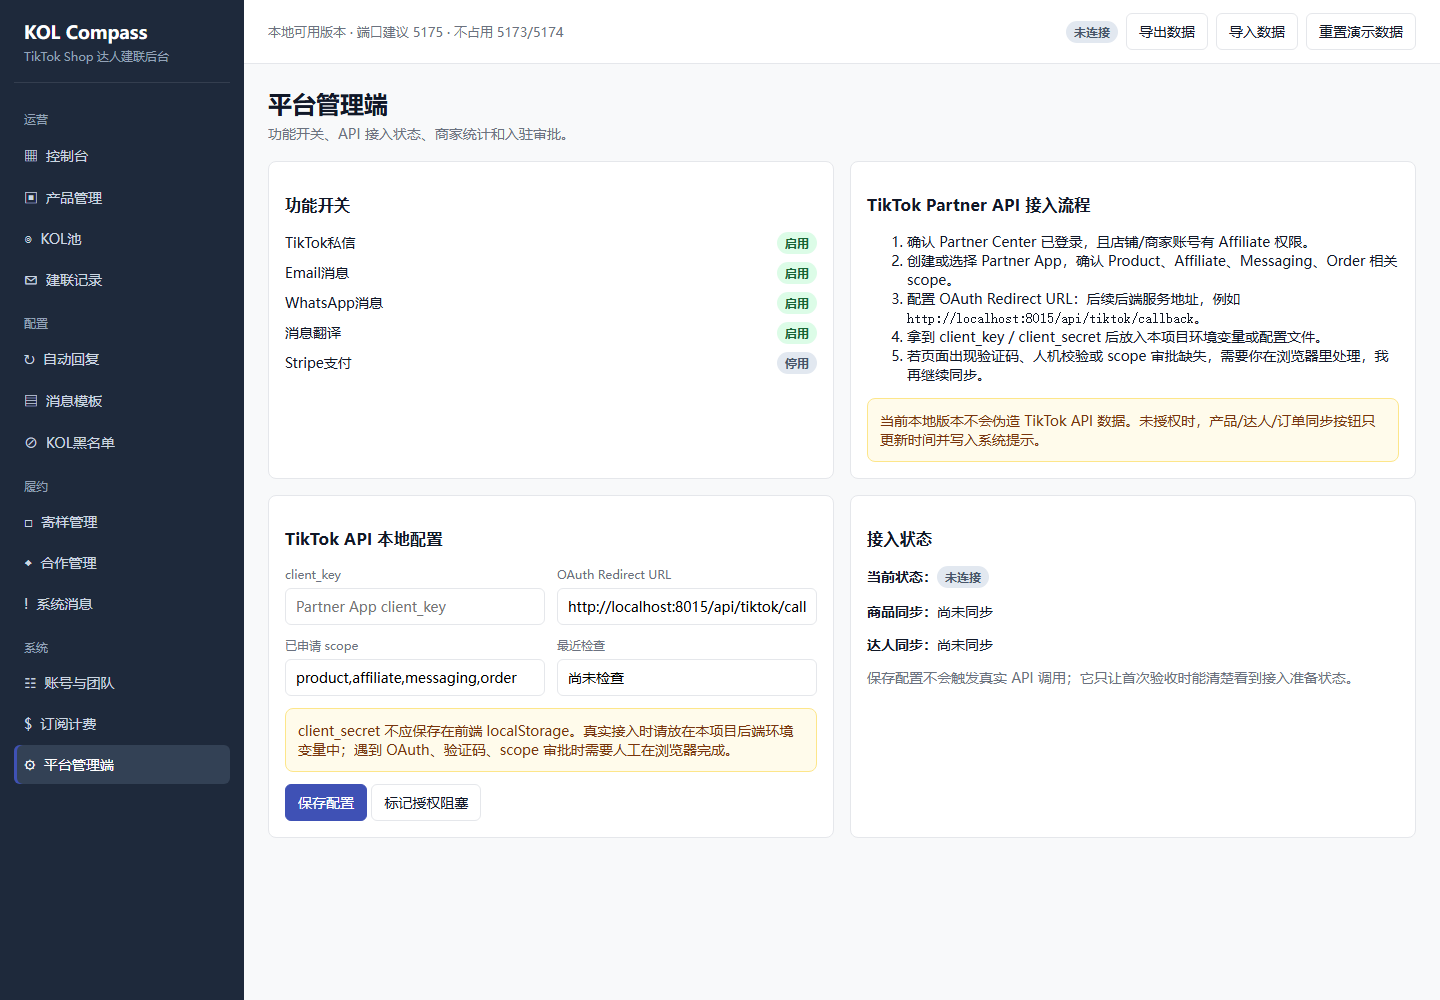
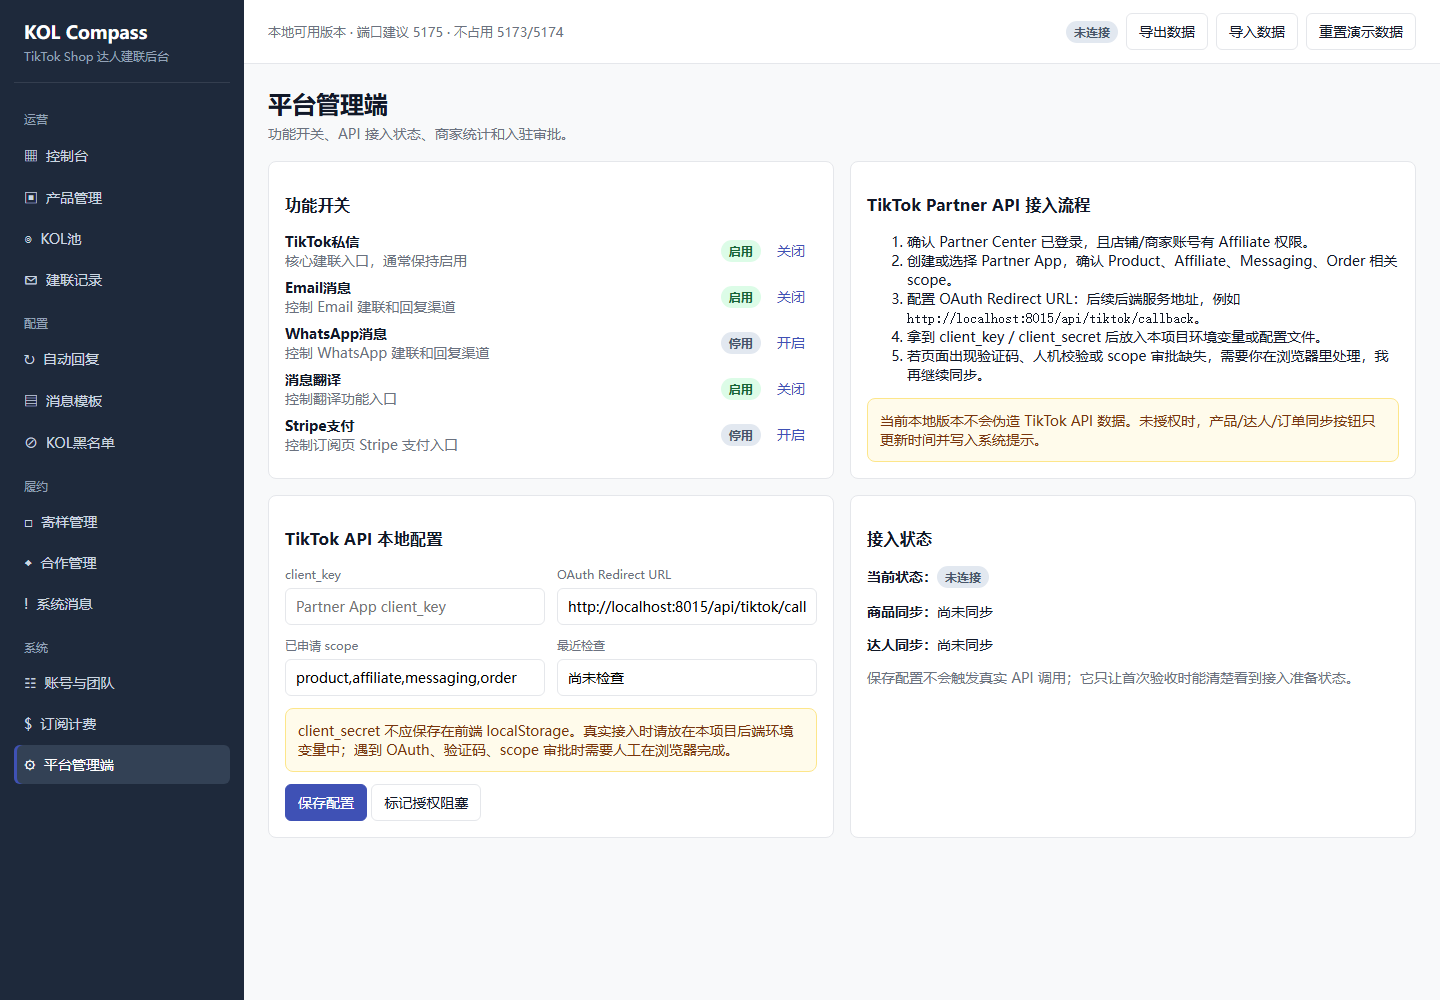
Enforce platform feature switches

Changed region(s): [[0.1875, 0.217, 0.3438, 0.465], [0.5, 0.217, 0.5625, 0.465]]

diff --git a/app.js b/app.js
@@ -60,6 +60,13 @@ const seed = {
     tiktokRedirectUrl: "http://localhost:8015/api/tiktok/callback",
     tiktokScopes: "product,affiliate,messaging,order",
     tiktokLastAuthCheck: "尚未检查",
+    featureSwitches: {
+      tiktokMessaging: true,
+      emailMessaging: true,
+      whatsappMessaging: false,
+      translation: true,
+      stripePayment: false,
+    },
   },
   products: [
     { id: 1, name: "无线蓝牙耳机 Pro Max", category: "电子配件", price: "$49.90", commission: "15%", mode: "公开合作", status: "在售" },
@@ -174,6 +181,7 @@ function normalizeState(next) {
   const merged = { ...structuredClone(seed), ...next };
   merged.filters = { ...seed.filters, ...(next.filters || {}) };
   merged.settings = { ...seed.settings, ...(next.settings || {}) };
+  merged.settings.featureSwitches = { ...seed.settings.featureSwitches, ...((next.settings || {}).featureSwitches || {}) };
   if (!Array.isArray(merged.bulkCreatorIds)) merged.bulkCreatorIds = [];
   if (!Array.isArray(merged.syncLogs)) merged.syncLogs = [];
   return merged;
@@ -419,7 +427,7 @@ function renderProducts() {
       </div>
       <div class="filters">
         <span class="muted">上次同步：${state.settings.lastProductSync}</span>
-        <button class="btn" onclick="addProduct()">手动新增测试商品</button>
+        <button class="btn" onclick="addProduct()">商品来源说明</button>
       </div>
     </div>
     <div class="notice" style="margin-bottom:12px">真实商品、佣金率和合作模式应来自 TikTok Shop Partner API；当前未授权时仅使用本地数据，不伪造同步成功。</div>
@@ -681,8 +689,10 @@ function renderTeam() {
 }
 
 function renderBilling() {
+  const stripeEnabled = Boolean(state.settings.featureSwitches.stripePayment);
   return `
     ${pageHead("订阅计费", "查看套餐、配额和账单。支付通道由平台管理端开关控制。")}
+    <div class="notice" style="margin-bottom:16px">当前可用支付通道：支付宝、微信支付${stripeEnabled ? "、Stripe" : "。Stripe 支付已由平台管理端关闭"}。</div>
     <div class="grid grid-4">
       ${["免费版|$0|100 建联/月", "基础版|$29|1,000 建联/月", "专业版|$99|5,000 建联/月", "企业版|$299|不限量"].map((raw) => {
         const [name, price, quota] = raw.split("|");
@@ -693,17 +703,33 @@ function renderBilling() {
 }
 
 function renderAdmin() {
+  const switches = [
+    ["tiktokMessaging", "TikTok私信", "核心建联入口，通常保持启用"],
+    ["emailMessaging", "Email消息", "控制 Email 建联和回复渠道"],
+    ["whatsappMessaging", "WhatsApp消息", "控制 WhatsApp 建联和回复渠道"],
+    ["translation", "消息翻译", "控制翻译功能入口"],
+    ["stripePayment", "Stripe支付", "控制订阅页 Stripe 支付入口"],
+  ];
   return `
     ${pageHead("平台管理端", "功能开关、API 接入状态、商家统计和入驻审批。")}
     <div class="grid grid-2">
       <div class="card">
         <h3>功能开关</h3>
-        ${["TikTok私信", "Email消息", "WhatsApp消息", "消息翻译", "Stripe支付"].map((x, i) => `
+        ${switches.map(([key, name, desc]) => {
+          const enabled = Boolean(state.settings.featureSwitches[key]);
+          return `
           <div class="toolbar" style="margin:8px 0">
-            <span>${x}</span>
-            ${badge(i === 4 ? "停用" : "启用")}
+            <div>
+              <b>${name}</b>
+              <div class="muted">${desc}</div>
+            </div>
+            <div>
+              ${badge(enabled ? "启用" : "停用")}
+              <button class="btn ghost" onclick="toggleFeatureSwitch('${key}')">${enabled ? "关闭" : "开启"}</button>
+            </div>
           </div>
-        `).join("")}
+        `;
+        }).join("")}
       </div>
       <div class="card">
         <h3>TikTok Partner API 接入流程</h3>
@@ -874,6 +900,46 @@ function addSyncLog(module, status, reason) {
   state.syncLogs = state.syncLogs.slice(0, 50);
 }
 
+function featureEnabled(key) {
+  return Boolean(state.settings.featureSwitches[key]);
+}
+
+function channelFeatureKey(channel) {
+  if (channel === "Email") return "emailMessaging";
+  if (channel === "WhatsApp") return "whatsappMessaging";
+  return "tiktokMessaging";
+}
+
+function channelEnabled(channel) {
+  return featureEnabled(channelFeatureKey(channel));
+}
+
+function channelOptionsForCreators(targets, currentChannel = "") {
+  const list = [];
+  const add = (value, text = value) => list.push([value, text]);
+  if (channelEnabled("TikTok私信")) add("TikTok私信");
+  if (channelEnabled("Email") && targets.every((c) => c?.email)) add("Email");
+  if (channelEnabled("WhatsApp") && targets.every((c) => c?.whatsapp)) add("WhatsApp");
+  if (!list.length && currentChannel && channelEnabled(currentChannel)) add(currentChannel);
+  return list;
+}
+
+function validateChannelForCreators(channel, targets) {
+  if (!channelEnabled(channel)) {
+    alert(`${channel} 已被平台管理端关闭，不能用于新建联或回复。`);
+    return false;
+  }
+  if (channel === "Email" && !targets.every((c) => c?.email)) {
+    alert("选择 Email 前，需要先为所有目标达人录入 Email。");
+    return false;
+  }
+  if (channel === "WhatsApp" && !targets.every((c) => c?.whatsapp)) {
+    alert("选择 WhatsApp 前，需要先为所有目标达人录入 WhatsApp。");
+    return false;
+  }
+  return true;
+}
+
 function syncProducts() {
   state.settings.lastProductSync = nowText();
   const reason = "本地模式下仅更新时间；真实商品数据需完成 TikTok Partner API 授权。";
@@ -935,12 +1001,24 @@ function markApiAuthBlocked() {
   render();
 }
 
-function addProduct() {
-  const name = prompt("产品名称");
-  if (!name) return;
-  state.products.push({ id: Date.now(), name, category: "未分类", price: "-", commission: "10%", mode: "公开合作", status: "在售" });
+function toggleFeatureSwitch(key) {
+  const names = {
+    tiktokMessaging: "TikTok私信",
+    emailMessaging: "Email消息",
+    whatsappMessaging: "WhatsApp消息",
+    translation: "消息翻译",
+    stripePayment: "Stripe支付",
+  };
+  if (!Object.prototype.hasOwnProperty.call(state.settings.featureSwitches, key)) return;
+  state.settings.featureSwitches[key] = !state.settings.featureSwitches[key];
+  const status = state.settings.featureSwitches[key] ? "启用" : "停用";
+  pushMessage("功能开关", `${names[key] || key} 已${status}。`);
   saveState();
   render();
+}
+
+function addProduct() {
+  alert("产品数据应来自 TikTok Shop Partner API。本地版本不允许手动新增，避免和真实店铺商品冲突。");
 }
 
 function dateAfter(days) {
@@ -1001,12 +1079,7 @@ function advanceOutreach(id, status) {
 
 function replyChannelOptions(row) {
   const c = creator(row.creatorId);
-  const channels = new Map();
-  channels.set(row.channel || "TikTok私信", row.channel || "TikTok私信");
-  channels.set("TikTok私信", "TikTok私信");
-  if (c?.email) channels.set("Email", "Email");
-  if (c?.whatsapp) channels.set("WhatsApp", "WhatsApp");
-  return Array.from(channels.entries());
+  return channelOptionsForCreators([c], row.channel);
 }
 
 function openReplyModal(id) {
@@ -1015,10 +1088,13 @@ function openReplyModal(id) {
   const c = creator(row.creatorId);
   const p = product(row.productId) || state.products[0];
   const defaultTemplate = state.templates[1]?.content || "Hi {KOL名称}，感谢回复，我们会继续推进 {产品名称} 的合作。";
+  const channelOptions = replyChannelOptions(row);
+  if (!channelOptions.length) return alert("当前没有可用回复渠道，请先到平台管理端开启 TikTok 私信、Email 或 WhatsApp。");
+  const defaultChannel = channelOptions.some(([v]) => v === row.channel) ? row.channel : channelOptions[0][0];
   openModal("回复达人", `
-    <div class="notice">正在回复 @${escapeHtml(c?.username || "-")}。如达人已提供 Email 或 WhatsApp，可先在 KOL 详情中录入联系方式后切换渠道。</div>
+    <div class="notice">正在回复 @${escapeHtml(c?.username || "-")}。Email / WhatsApp 必须同时满足“平台开关已开启”和“达人已录入联系方式”才会显示。</div>
     <div class="form-grid" style="margin-top:12px">
-      ${selectField("replyChannel", "回复渠道", replyChannelOptions(row), row.channel || "TikTok私信")}
+      ${selectField("replyChannel", "回复渠道", channelOptions, defaultChannel)}
       ${selectField("replyTemplateId", "消息模板", [["0", "不使用模板"], ...state.templates.map((x) => [x.id, x.name])], state.templates[1]?.id || "0")}
     </div>
     <div class="form-field" style="margin-top:12px"><label>回复内容</label><textarea id="replyMessage" class="textarea">${escapeHtml(renderTemplate(defaultTemplate, c || {}, p))}</textarea></div>
@@ -1034,7 +1110,9 @@ function saveReply(id) {
   const template = state.templates.find((x) => x.id === templateId);
   const rawMessage = document.getElementById("replyMessage").value.trim() || template?.content || "";
   const message = renderTemplate(rawMessage, c || {}, p);
-  row.channel = document.getElementById("replyChannel").value;
+  const channel = document.getElementById("replyChannel").value;
+  if (!validateChannelForCreators(channel, [c])) return;
+  row.channel = channel;
   row.status = "待回复";
   row.updatedAt = nowText();
   row.lastMessage = `[${row.updatedAt}] 我方回复：${message}`;
@@ -1225,16 +1303,14 @@ function openOutreachModal(creatorId = 0) {
     alert("请先选择至少一位可建联达人");
     return;
   }
-  const first = targets[0];
-  const channelOptions = [["TikTok私信", "TikTok私信"]];
-  if (targets.every((c) => c.email)) channelOptions.push(["Email", "Email"]);
-  if (targets.every((c) => c.whatsapp)) channelOptions.push(["WhatsApp", "WhatsApp"]);
+  const channelOptions = channelOptionsForCreators(targets);
+  if (!channelOptions.length) return alert("当前没有可用发送渠道，请先到平台管理端开启 TikTok 私信、Email 或 WhatsApp。");
   const defaultTemplate = state.templates[0]?.content || "Hi {KOL名称}，我们想邀请你合作 {产品名称}。";
   openModal("发起建联", `
-    <div class="notice">本次将联系 ${targets.length} 位达人：${targets.slice(0, 4).map((c) => `@${escapeHtml(c.username)}`).join("、")}${targets.length > 4 ? " 等" : ""}。未录入 Email/WhatsApp 的达人仅显示 TikTok 私信渠道。</div>
+    <div class="notice">本次将联系 ${targets.length} 位达人：${targets.slice(0, 4).map((c) => `@${escapeHtml(c.username)}`).join("、")}${targets.length > 4 ? " 等" : ""}。Email / WhatsApp 必须同时满足“平台开关已开启”和“所有目标达人已录入联系方式”才会显示。</div>
     <div class="form-grid" style="margin-top:12px">
       ${selectField("outreachProductId", "建联产品", state.products.map((x) => [x.id, `${x.name} · ${x.commission}`]), state.products[0]?.id)}
-      ${selectField("outreachChannel", "发送渠道", channelOptions, "TikTok私信")}
+      ${selectField("outreachChannel", "发送渠道", channelOptions, channelOptions[0][0])}
       ${selectField("outreachTemplateId", "消息模板", [["0", "不使用模板"], ...state.templates.map((x) => [x.id, x.name])], state.templates[0]?.id || "0")}
       ${selectField("outreachSendMode", "发送方式", [["立即发送", "立即发送"], ["定时发送", "定时发送"]], "立即发送")}
       ${field("outreachScheduleAt", "定时发送时间", "2026-06-22 09:30", "")}
@@ -1262,6 +1338,8 @@ function saveOutreach(idList) {
   const scheduleAt = document.getElementById("outreachScheduleAt").value.trim();
   const invite = document.getElementById("outreachInvite").value === "是";
   const message = document.getElementById("outreachMessage").value.trim() || template?.content || "";
+  const targets = ids.map((id) => creator(id)).filter(Boolean).filter((c) => c.status !== "黑名单");
+  if (!validateChannelForCreators(channel, targets)) return;
   let created = 0;
   ids.forEach((id, index) => {
     const c = creator(id);
@@ -1748,6 +1826,7 @@ window.syncCoopData = syncCoopData;
 window.simulateConnect = simulateConnect;
 window.saveApiSettings = saveApiSettings;
 window.markApiAuthBlocked = markApiAuthBlocked;
+window.toggleFeatureSwitch = toggleFeatureSwitch;
 window.addProduct = addProduct;
 window.openCreatorModal = openCreatorModal;
 window.saveCreator = saveCreator;

diff --git a/smoke-test.js b/smoke-test.js
@@ -79,6 +79,8 @@ async function main() {
   assert("TikTok API handoff exists", fs.existsSync("docs/TIKTOK_API_HANDOFF.md"));
   assert("TikTok API settings can be saved locally", ["tiktokClientKey", "tiktokRedirectUrl", "tiktokScopes", "saveApiSettings", "markApiAuthBlocked"].every((name) => app.includes(name)) && app.includes("client_secret 不应保存在前端"));
   assert("sync logs are visible and recorded", ["syncLogs", "addSyncLog"].every((name) => app.includes(name)) && app.includes("同步日志"));
+  assert("platform feature switches govern channels", ["featureSwitches", "toggleFeatureSwitch", "channelOptionsForCreators", "validateChannelForCreators"].every((name) => app.includes(name)) && app.includes("Stripe 支付已由平台管理端关闭"));
+  assert("products cannot be manually faked", app.includes("本地版本不允许手动新增") && app.includes("产品数据应来自 TikTok Shop Partner API"));
   assert("Claude continuation doc exists", fs.existsSync("docs/CLAUDE_CONTINUE.md"));
   assert("acceptance report exists", fs.existsSync("docs/ACCEPTANCE_REPORT.md"));
 

diff --git a/docs/CLAUDE_CONTINUE.md b/docs/CLAUDE_CONTINUE.md
@@ -31,7 +31,7 @@
 - `stop-5175.bat`
 - `smoke-test.js`
 
-最近一次心跳检查：2026-06-21 23:14 CST，当前分支已连接 GitHub 远端，`node --check app.js` 与 `node smoke-test.js` 通过。本轮新增系统消息同步日志，用于展示 API/同步状态、失败原因和时间。
+最近一次心跳检查：2026-06-21 23:20 CST，当前分支已连接 GitHub 远端，`node --check app.js` 与 `node smoke-test.js` 通过。本轮新增平台功能开关真实约束：Email/WhatsApp 开关会影响建联和回复渠道，Stripe 开关会影响订阅页提示；产品管理不允许手动新增伪造商品。
 
 启动：
 
@@ -87,6 +87,7 @@ P0：
    - 支持关键词搜索
    - 支持类目、状态、合作模式筛选
    - 未授权 TikTok Partner API 时只展示本地数据和明确提示，不伪造同步成功
+   - 不允许手动新增商品，避免和 TikTok Shop 真实商品源冲突
 3. 补齐各页面的新增/编辑/删除闭环，不只是展示。
 4. 把“合作管理”作为内容追踪主工作台继续增强：
    - 达人/产品/负责人/备注搜索
@@ -113,6 +114,10 @@ P0：
    - 当前使用 localStorage
    - 后续如果需要后端，新增本项目自己的后端端口，例如 `8015`
    - 不接入 `D:\tiktok-creator-tool` 的后端
+8. 保持平台功能开关真实生效：
+   - Email / WhatsApp 关闭后，新建联和回复渠道不展示对应入口
+   - 保存建联/回复时必须二次校验渠道开关和达人联系方式
+   - Stripe 关闭后，订阅页必须明确展示 Stripe 不可用
 
 P1：
 
@@ -169,4 +174,5 @@ GitHub 提交流程：
 "C:\Program Files (x86)\Microsoft\Edge\Application\msedge.exe" --headless=new --disable-gpu --no-first-run --window-size=1440,1000 --screenshot="smoke-cooperations.png" "http://127.0.0.1:5175/#cooperations"
 "C:\Program Files (x86)\Microsoft\Edge\Application\msedge.exe" --headless=new --disable-gpu --no-first-run --window-size=1440,1000 --screenshot="smoke-kol-detail.png" "http://127.0.0.1:5175/#kol/creator/1"
 "C:\Program Files (x86)\Microsoft\Edge\Application\msedge.exe" --headless=new --disable-gpu --no-first-run --window-size=1440,1000 --screenshot="smoke-messages.png" "http://127.0.0.1:5175/#messages"
+"C:\Program Files (x86)\Microsoft\Edge\Application\msedge.exe" --headless=new --disable-gpu --no-first-run --window-size=1440,1000 --screenshot="smoke-billing.png" "http://127.0.0.1:5175/#billing"
 ```

diff --git a/docs/PROJECT_MEMORY.md b/docs/PROJECT_MEMORY.md
@@ -1,6 +1,6 @@
 # KOL Compass 项目记忆
 
-更新时间：2026-06-21 23:14 CST
+更新时间：2026-06-21 23:20 CST
 
 ## 当前工作目录
 
@@ -40,6 +40,8 @@ node smoke-test.js
 
 - `node --check app.js` 通过。
 - `node smoke-test.js` 全部通过。
+- 平台管理端截图 `smoke-admin.png` 已重新生成并目视检查通过，功能开关可见且可切换。
+- 订阅计费截图 `smoke-billing.png` 已生成并目视检查通过，Stripe 关闭状态可见。
 - 系统消息截图 `smoke-messages.png` 已生成并目视检查通过。
 - 产品管理截图 `smoke-products.png` 已生成并目视检查通过。
 - 平台管理端截图 `smoke-admin.png` 已重新生成并目视检查通过。
@@ -58,6 +60,10 @@ node smoke-test.js
 - 建联记录已支持按达人/产品/消息关键词、沟通状态、渠道筛选。
 - 合作管理已支持按达人/产品/负责人/备注搜索，并支持全部/已产出/未产出筛选。
 - 平台管理端已支持保存 TikTok API 本地配置：client_key、OAuth Redirect URL、scope、最近检查时间；client_secret 明确不保存到前端。
+- 平台管理端功能开关已从静态展示变成真实状态：TikTok 私信、Email、WhatsApp、消息翻译、Stripe 支付可切换。
+- 建联和回复渠道会读取功能开关；关闭 Email/WhatsApp 后，新建联和回复不会再显示对应渠道，保存时也会二次校验。
+- 订阅计费页会读取 Stripe 支付开关，关闭时明确展示 Stripe 不可用。
+- 产品管理不允许手动新增商品，避免本地商品和 TikTok Shop 真实商品源冲突。
 - KOL 池和合作管理已支持 CSV 导入。
 - KOL 池已支持勾选达人、一键建联、选择产品/模板/渠道、定时发送记录和附加邀请链接。
 - 达人联系方式已支持在编辑弹窗录入 Email / WhatsApp。

diff --git a/README.md b/README.md
@@ -69,6 +69,7 @@ KOL CSV 支持表头：
 - 产品管理支持搜索、类目筛选、状态筛选和合作模式筛选；未授权时仅使用本地数据，不伪造 TikTok API 同步成功。
 - KOL池支持导入 KOL CSV、关键词/达人类型/类目/地区/粉丝量级/回复率筛选、勾选达人、一键建联、选择产品/模板/渠道、定时发送记录和附加邀请链接；合作管理支持导入合作 CSV。
 - 达人编辑弹窗支持录入 Email / WhatsApp；建联记录和 KOL 详情沟通记录支持直接回复。
+- 平台管理端功能开关会约束建联和回复渠道；关闭 Email/WhatsApp 后，新建联和回复不会再显示对应渠道。
 - 建联记录支持按达人/产品/消息关键词、沟通状态和渠道筛选。
 - 合作管理支持按达人/产品/负责人/备注搜索，并支持全部/已产出/未产出筛选。
 - 系统消息包含同步日志，记录 API/商品/达人/内容订单同步的模块、状态、失败原因和时间。
@@ -77,6 +78,7 @@ KOL CSV 支持表头：
 - 已覆盖控制台、产品管理、KOL池、建联记录、自动回复、消息模板、黑名单、寄样管理、合作管理、系统消息、账号团队、订阅计费、平台管理端。
 - 合作管理是内容追踪唯一主入口，包含已产出/未产出、视频、直播、GMV、订单、佣金、ROI 和自定义标签筛选。
 - KOL详情只展示基础资料、联系方式、标签备注、沟通记录和合作入口，不展示视频/直播/GMV/ROI。
+- 产品不能手动新增，避免本地数据和 TikTok Shop 真实商品源冲突。
 
 ## TikTok API 接入边界
 

diff --git a/docs/ACCEPTANCE_REPORT.md b/docs/ACCEPTANCE_REPORT.md
@@ -125,6 +125,9 @@ node smoke-test.js
 - KOL池支持勾选达人、一键建联、选择产品/模板/渠道、定时发送记录和附加邀请链接
 - KOL池支持关键词、达人类型、类目、地区、粉丝量级、回复率区间筛选
 - 产品管理支持产品搜索、类目筛选、状态筛选和合作模式筛选
+- 产品管理不允许手动新增商品，避免伪造 TikTok Shop 商品源
+- 平台管理端功能开关会约束建联和回复渠道，关闭 Email/WhatsApp 后不再作为新操作渠道
+- 订阅页读取 Stripe 支付开关，关闭时明确展示不可用状态
 - 系统消息包含同步日志，展示 API/同步状态、原因和时间
 - KOL详情和达人编辑弹窗支持录入 Email / WhatsApp
 - 建联记录和KOL详情沟通记录支持直接回复
@@ -153,6 +156,7 @@ node smoke-test.js
 - `smoke-samples.png`
 - `smoke-templates.png`
 - `smoke-admin.png`
+- `smoke-billing.png`
 - `smoke-messages.png`
 
 ## 当前限制
